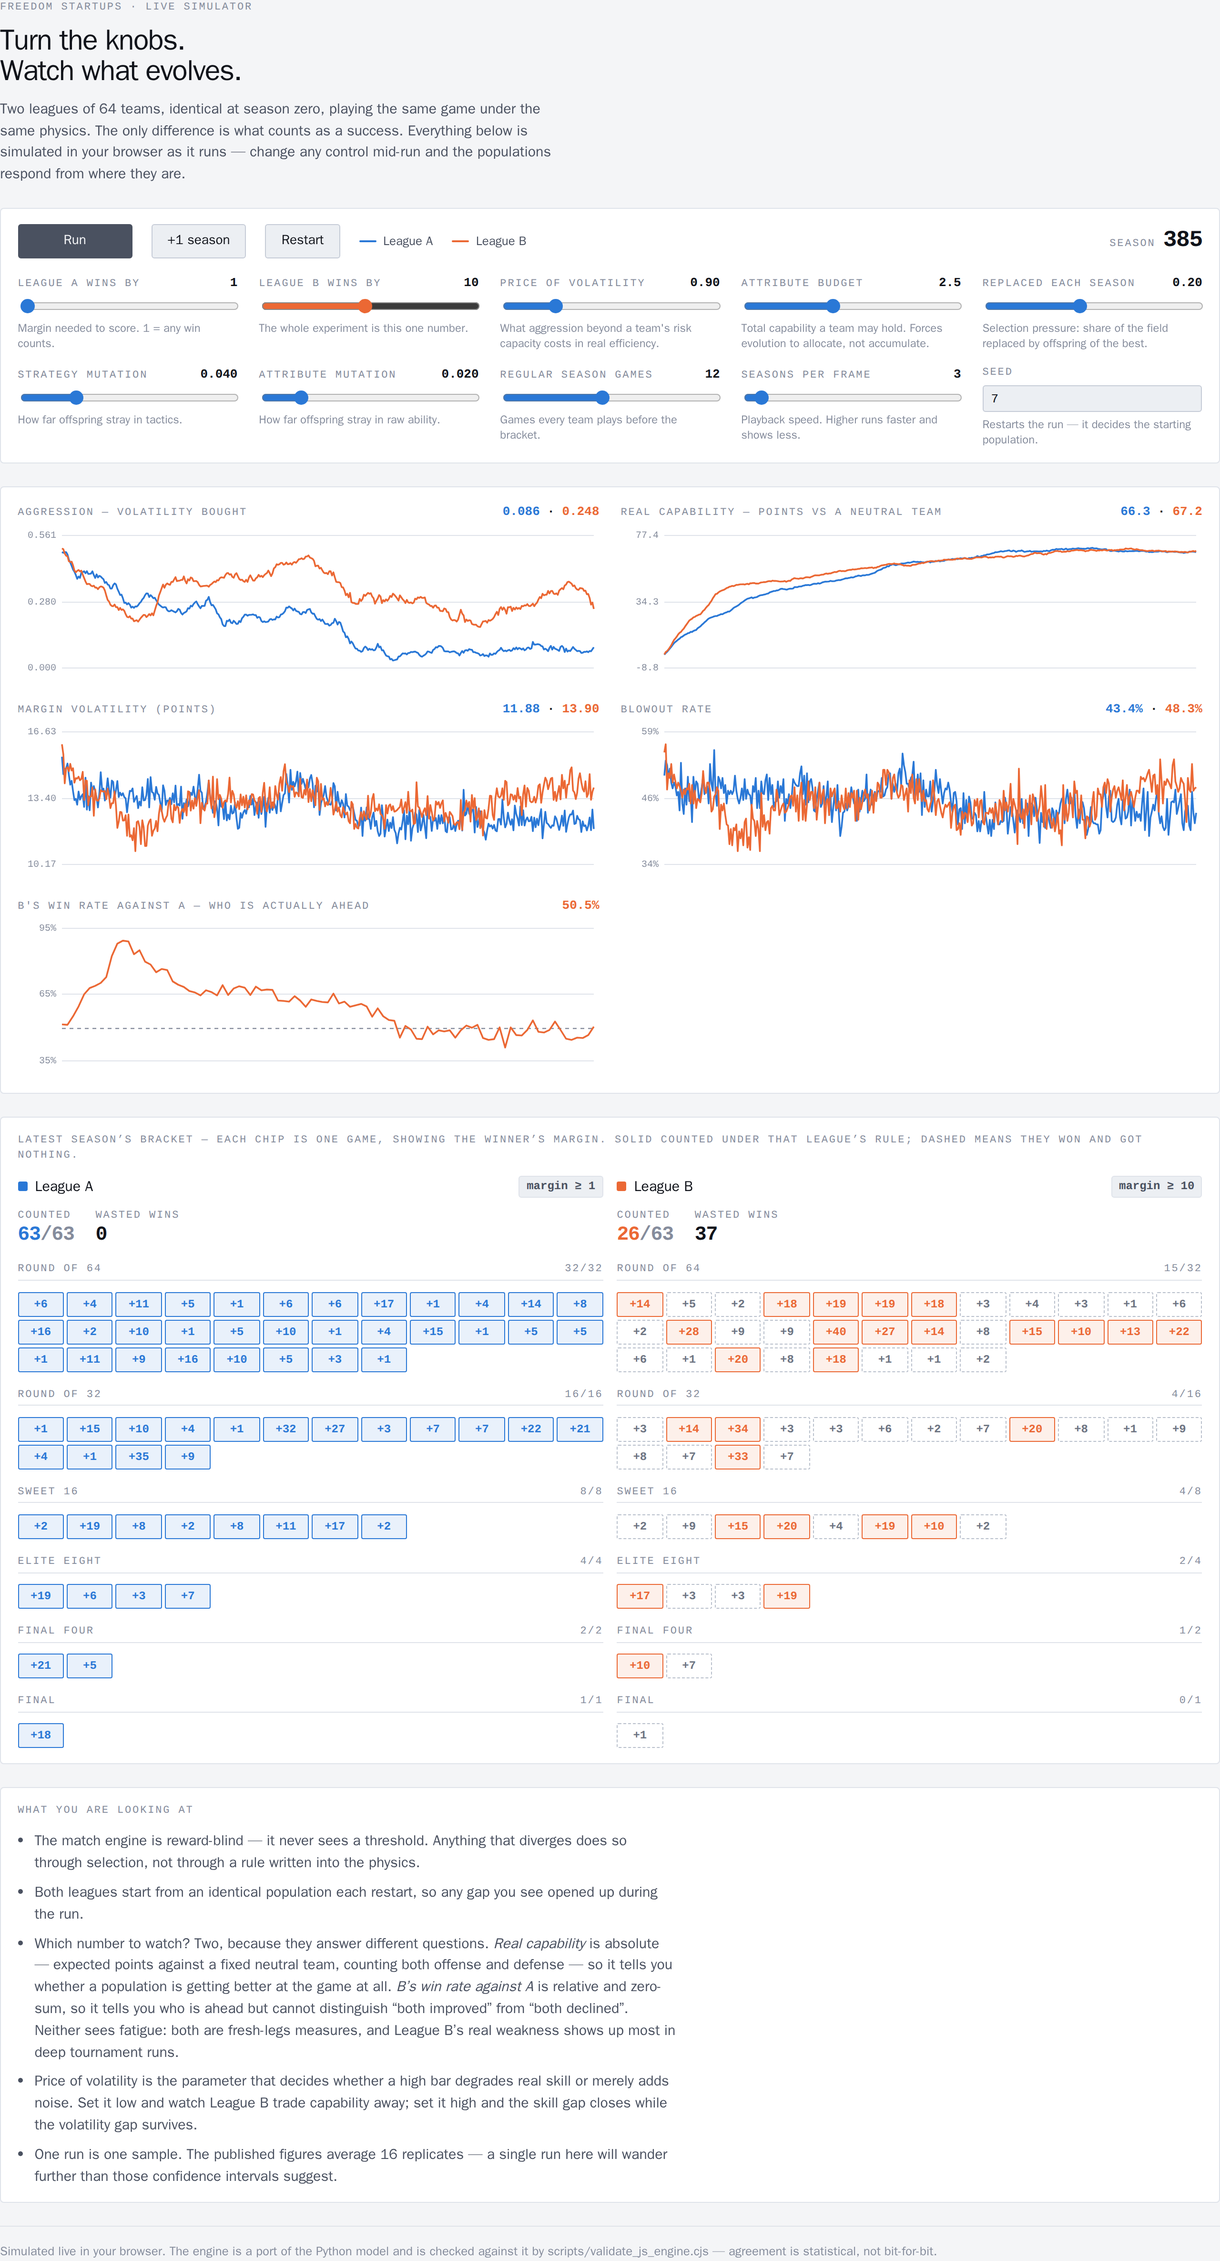
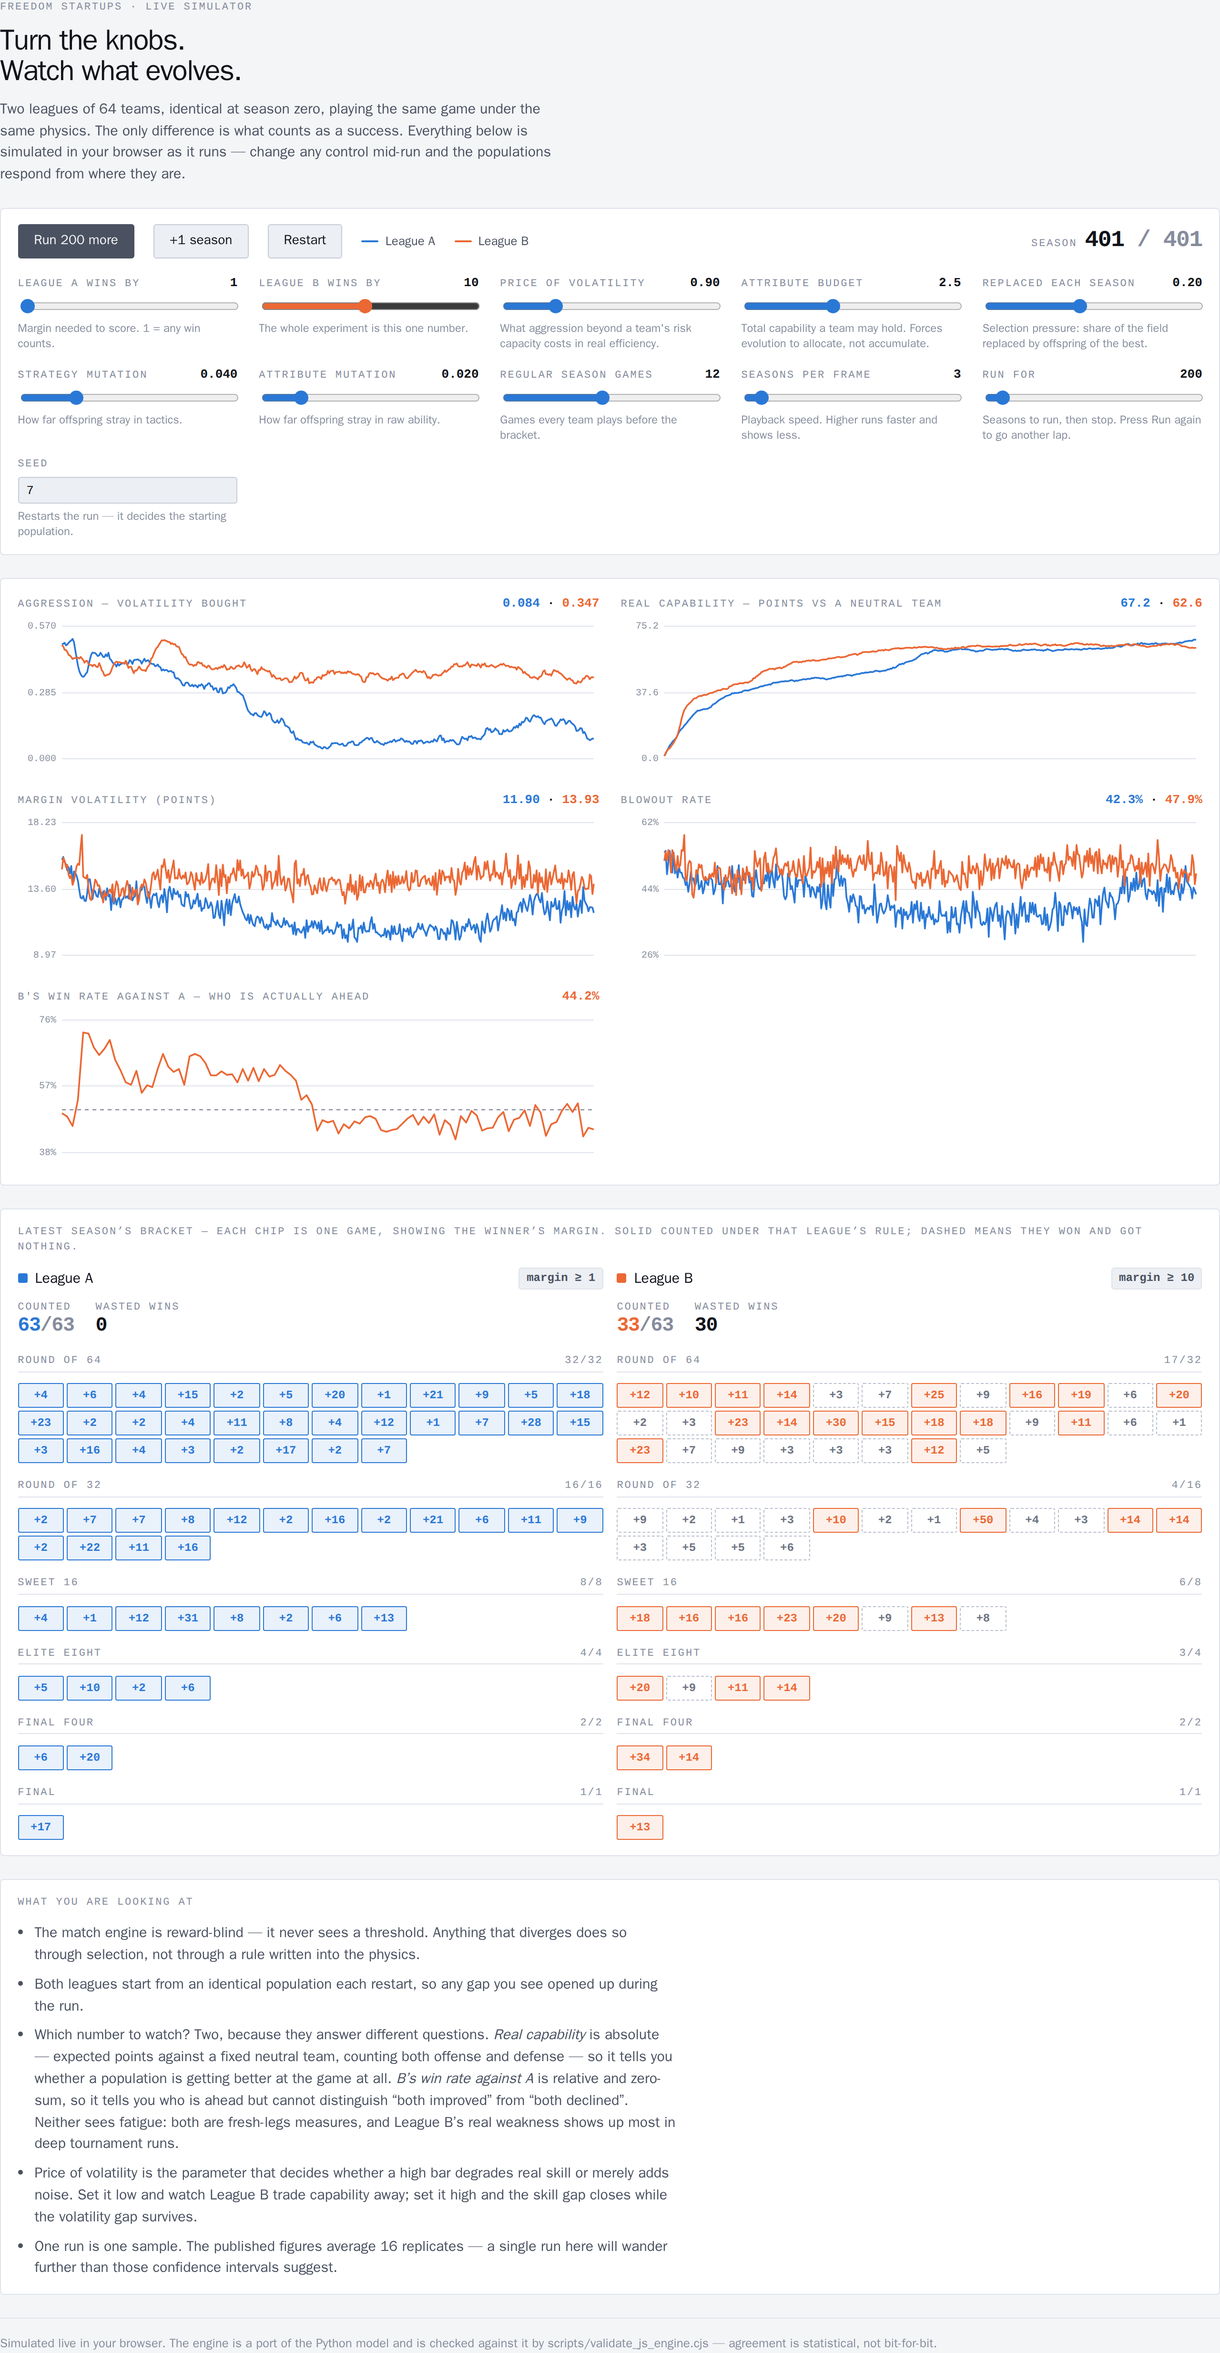
Retract the early-lead finding; fix RNG coupling; add a season target
RETRACTION. PAPER.md §4.2b claimed League B improves faster for the first
hundred seasons (offense +0.042 at season 25, truncation selection). The claim
does not survive its error bars: sd 0.184 against that mean, 95% CI
[-0.048, +0.132], not significant at ANY season. It was asserted from eyeballed
mean curves without checking the spread — the same error §5.1's null control
exists to prevent. Early trajectories are ~3x noisier than converged ones, so a
16-replicate mean traces a shape individual runs do not share. Testing it
properly needs ~150 replicates; that has not been run, so the question is open,
not answered.

Two real bugs, both surfaced by the JS engine failing to reproduce the claim:

- Bracket seeding drew fresh jitter inside the sort comparator, making it
  non-transitive. With integer rewards there are many ties, so the "ranking"
  was arbitrary rather than sorted.
- mulberry32 gives correlated streams for nearby seeds, and the two leagues were
  seeded one apart — quietly coupling their randomness and undermining the one
  property the whole design rests on. Seeds are now mixed through a splitmix32
  finalizer, and the generator warms up before use.

The validator's transient checks encoded the withdrawn claim; they now assert an
invariant that holds (both populations climb toward the attribute cap).

UX: the simulator no longer runs forever. Set "Run for" seasons and it stops
there; pressing Run again goes another lap.

diff --git a/web/sim.html b/web/sim.html
@@ -173,7 +173,8 @@
         <span><i style="background:var(--b)"></i> League B</span>
       </div>
       <div class="season-readout">
-        <span class="micro">Season</span><span class="v" id="season">0</span>
+        <span class="micro">Season</span>
+        <span class="v"><span id="season">0</span><span id="target-label" style="color:var(--ink-3)"></span></span>
       </div>
     </div>
     <div class="controls" id="controls"></div>
@@ -282,8 +283,18 @@ const Engine = (() => {
 
   // -- randomness ------------------------------------------------------------
 
+  /** mulberry32 gives correlated streams for nearby seeds, and the two leagues
+   *  are seeded one apart — which would quietly couple their randomness and
+   *  break the one property the design rests on. Mix the seed hard first. */
+  function mixSeed(x) {
+    x = ((x | 0) + 0x9E3779B9) | 0;
+    x = Math.imul(x ^ (x >>> 16), 0x21f0aaad);
+    x = Math.imul(x ^ (x >>> 15), 0x735a2d97);
+    return (x ^ (x >>> 15)) >>> 0;
+  }
+
   function makeRng(seed) {
-    let a = (seed >>> 0) || 1;
+    let a = mixSeed(seed) || 1;
     let spare = null;
 
     const next = () => {
@@ -320,6 +331,7 @@ const Engine = (() => {
       }
     };
 
+    for (let i = 0; i < 16; i++) next();
     return { next, normal, gamma, int: (n) => Math.floor(next() * n) };
   }
 
@@ -601,8 +613,13 @@ const Engine = (() => {
     }
 
     // Seed by the league's own success metric, ties broken at random.
-    const seeds = Array.from({ length: n }, (_, i) => i)
-      .sort((p, q) => (reward[q] + rng.next() * 1e-6) - (reward[p] + rng.next() * 1e-6));
+    // The jitter must be drawn ONCE PER TEAM, not inside the comparator: a
+    // comparator that re-randomises on every call is non-transitive, and with
+    // integer rewards there are many ties, so the resulting order is garbage
+    // rather than a ranking.
+    const keyed = new Float64Array(n);
+    for (let i = 0; i < n; i++) keyed[i] = reward[i] + rng.next() * 1e-6;
+    const seeds = Array.from({ length: n }, (_, i) => i).sort((p, q) => keyed[q] - keyed[p]);
     const seedOf = new Int32Array(n);
     seeds.forEach((team, pos) => { seedOf[team] = pos; });
 
@@ -758,6 +775,8 @@ const Engine = (() => {
       hint: "Games every team plays before the bracket." },
     { key: "speed", label: "Seasons per frame", min: 1, max: 40, step: 1, value: 3,
       hint: "Playback speed. Higher runs faster and shows less." },
+    { key: "target", label: "Run for", min: 50, max: 3000, step: 50, value: 600,
+      hint: "Seasons to run, then stop. Press Run again to go another lap." },
   ];
 
   const CHARTS = [
@@ -773,6 +792,7 @@ const Engine = (() => {
 
   const params = Object.fromEntries(CONTROLS.map((c) => [c.key, c.value]));
   let seed = 7;
+  let target = params.target;
   let run = null;
   let playing = false;
   let lastWallDraw = 0;
@@ -802,7 +822,15 @@ const Engine = (() => {
       input.addEventListener("input", () => {
         params[c.key] = parseFloat(input.value);
         show();
-        applyLive();
+        // The target is a stopping point, not a model parameter: set it from
+        // where the run currently is, so it always means "this many more".
+        if (c.key === "target") {
+          target = (run ? run.season : 0) + Math.round(params.target);
+          setPlaying(playing);
+          render(true);
+        } else {
+          applyLive();
+        }
       });
       show();
     }
@@ -842,6 +870,7 @@ const Engine = (() => {
   /* ---------- lifecycle ---------- */
 
   function restart() {
+    target = Math.round(params.target);
     run = Engine.createRun({
       seed,
       leagues: [
@@ -864,14 +893,18 @@ const Engine = (() => {
   function tick() {
     if (!playing) return;
     const n = Math.round(params.speed);
-    for (let i = 0; i < n; i++) Engine.step(run);
+    for (let i = 0; i < n && run.season < target; i++) Engine.step(run);
     render(false);
+    if (run.season >= target) { setPlaying(false); render(true); return; }
     requestAnimationFrame(tick);
   }
 
   function setPlaying(on) {
     playing = on;
-    document.getElementById("run").textContent = on ? "Pause" : "Run";
+    const button = document.getElementById("run");
+    button.textContent = on ? "Pause"
+      : run && run.season >= target ? `Run ${Math.round(params.target)} more`
+      : "Run";
     if (on) requestAnimationFrame(tick);
   }
 
@@ -879,6 +912,7 @@ const Engine = (() => {
 
   function render(force) {
     document.getElementById("season").textContent = run.season.toLocaleString();
+    document.getElementById("target-label").textContent = ` / ${target.toLocaleString()}`;
     for (const spec of CHARTS) {
       if (spec.mode === "h2h" && run.h2hHistory.length < 2) continue;
       drawChart(spec);
@@ -1022,9 +1056,14 @@ const Engine = (() => {
   buildCharts();
   restart();
 
-  document.getElementById("run").addEventListener("click", () => setPlaying(!playing));
+  document.getElementById("run").addEventListener("click", () => {
+    if (!playing && run.season >= target) target = run.season + Math.round(params.target);
+    setPlaying(!playing);
+  });
   document.getElementById("step").addEventListener("click", () => {
-    setPlaying(false); Engine.step(run); render(true);
+    setPlaying(false);
+    if (run.season >= target) target = run.season + 1;
+    Engine.step(run); render(true); setPlaying(false);
   });
   document.getElementById("restart").addEventListener("click", () => { setPlaying(false); restart(); });
   window.addEventListener("resize", () => render(true));

diff --git a/web/sim_template.html b/web/sim_template.html
@@ -173,7 +173,8 @@
         <span><i style="background:var(--b)"></i> League B</span>
       </div>
       <div class="season-readout">
-        <span class="micro">Season</span><span class="v" id="season">0</span>
+        <span class="micro">Season</span>
+        <span class="v"><span id="season">0</span><span id="target-label" style="color:var(--ink-3)"></span></span>
       </div>
     </div>
     <div class="controls" id="controls"></div>
@@ -252,6 +253,8 @@
       hint: "Games every team plays before the bracket." },
     { key: "speed", label: "Seasons per frame", min: 1, max: 40, step: 1, value: 3,
       hint: "Playback speed. Higher runs faster and shows less." },
+    { key: "target", label: "Run for", min: 50, max: 3000, step: 50, value: 600,
+      hint: "Seasons to run, then stop. Press Run again to go another lap." },
   ];
 
   const CHARTS = [
@@ -267,6 +270,7 @@
 
   const params = Object.fromEntries(CONTROLS.map((c) => [c.key, c.value]));
   let seed = 7;
+  let target = params.target;
   let run = null;
   let playing = false;
   let lastWallDraw = 0;
@@ -296,7 +300,15 @@
       input.addEventListener("input", () => {
         params[c.key] = parseFloat(input.value);
         show();
-        applyLive();
+        // The target is a stopping point, not a model parameter: set it from
+        // where the run currently is, so it always means "this many more".
+        if (c.key === "target") {
+          target = (run ? run.season : 0) + Math.round(params.target);
+          setPlaying(playing);
+          render(true);
+        } else {
+          applyLive();
+        }
       });
       show();
     }
@@ -336,6 +348,7 @@
   /* ---------- lifecycle ---------- */
 
   function restart() {
+    target = Math.round(params.target);
     run = Engine.createRun({
       seed,
       leagues: [
@@ -358,14 +371,18 @@
   function tick() {
     if (!playing) return;
     const n = Math.round(params.speed);
-    for (let i = 0; i < n; i++) Engine.step(run);
+    for (let i = 0; i < n && run.season < target; i++) Engine.step(run);
     render(false);
+    if (run.season >= target) { setPlaying(false); render(true); return; }
     requestAnimationFrame(tick);
   }
 
   function setPlaying(on) {
     playing = on;
-    document.getElementById("run").textContent = on ? "Pause" : "Run";
+    const button = document.getElementById("run");
+    button.textContent = on ? "Pause"
+      : run && run.season >= target ? `Run ${Math.round(params.target)} more`
+      : "Run";
     if (on) requestAnimationFrame(tick);
   }
 
@@ -373,6 +390,7 @@
 
   function render(force) {
     document.getElementById("season").textContent = run.season.toLocaleString();
+    document.getElementById("target-label").textContent = ` / ${target.toLocaleString()}`;
     for (const spec of CHARTS) {
       if (spec.mode === "h2h" && run.h2hHistory.length < 2) continue;
       drawChart(spec);
@@ -516,9 +534,14 @@
   buildCharts();
   restart();
 
-  document.getElementById("run").addEventListener("click", () => setPlaying(!playing));
+  document.getElementById("run").addEventListener("click", () => {
+    if (!playing && run.season >= target) target = run.season + Math.round(params.target);
+    setPlaying(!playing);
+  });
   document.getElementById("step").addEventListener("click", () => {
-    setPlaying(false); Engine.step(run); render(true);
+    setPlaying(false);
+    if (run.season >= target) target = run.season + 1;
+    Engine.step(run); render(true); setPlaying(false);
   });
   document.getElementById("restart").addEventListener("click", () => { setPlaying(false); restart(); });
   window.addEventListener("resize", () => render(true));

diff --git a/web/engine.js b/web/engine.js
@@ -53,8 +53,18 @@ const Engine = (() => {
 
   // -- randomness ------------------------------------------------------------
 
+  /** mulberry32 gives correlated streams for nearby seeds, and the two leagues
+   *  are seeded one apart — which would quietly couple their randomness and
+   *  break the one property the design rests on. Mix the seed hard first. */
+  function mixSeed(x) {
+    x = ((x | 0) + 0x9E3779B9) | 0;
+    x = Math.imul(x ^ (x >>> 16), 0x21f0aaad);
+    x = Math.imul(x ^ (x >>> 15), 0x735a2d97);
+    return (x ^ (x >>> 15)) >>> 0;
+  }
+
   function makeRng(seed) {
-    let a = (seed >>> 0) || 1;
+    let a = mixSeed(seed) || 1;
     let spare = null;
 
     const next = () => {
@@ -91,6 +101,7 @@ const Engine = (() => {
       }
     };
 
+    for (let i = 0; i < 16; i++) next();
     return { next, normal, gamma, int: (n) => Math.floor(next() * n) };
   }
 
@@ -372,8 +383,13 @@ const Engine = (() => {
     }
 
     // Seed by the league's own success metric, ties broken at random.
-    const seeds = Array.from({ length: n }, (_, i) => i)
-      .sort((p, q) => (reward[q] + rng.next() * 1e-6) - (reward[p] + rng.next() * 1e-6));
+    // The jitter must be drawn ONCE PER TEAM, not inside the comparator: a
+    // comparator that re-randomises on every call is non-transitive, and with
+    // integer rewards there are many ties, so the resulting order is garbage
+    // rather than a ranking.
+    const keyed = new Float64Array(n);
+    for (let i = 0; i < n; i++) keyed[i] = reward[i] + rng.next() * 1e-6;
+    const seeds = Array.from({ length: n }, (_, i) => i).sort((p, q) => keyed[q] - keyed[p]);
     const seedOf = new Int32Array(n);
     seeds.forEach((team, pos) => { seedOf[team] = pos; });
 

diff --git a/PAPER.md b/PAPER.md
@@ -22,11 +22,7 @@ offensive and defensive skill end up *lower* than League A's, and against a
 common opponent its expected margin is −0.53 points against League A's +0.01.
 The volatility effects are large relative to a drift null control (t = 4.8–6.0);
 the skill degradation is real but marginal (t = 2.0–2.4) and, as a price-of-
-volatility sweep shows, holds only where volatility is cheap. It is also not
-monotone: League B improves *faster* than League A for the first hundred seasons,
-peaking at +0.042 offensive skill around season 25, before the advantage decays
-and reverses. A demanding bar is a sharp selection instrument for a weak
-population and a corrupting one for a capable population.
+volatility sweep shows, holds only where volatility is cheap.
 
 The trade is not merely lateral but unfavourable. League B gains 0.89 percentage
 points at winning by 10+ while giving up 3.42 points at losing by 10+; the
@@ -284,41 +280,33 @@ strongest available evidence that the mechanism is real rather than incidental:
 At threshold 5 only offensive skill is significantly degraded; at threshold 10
 both attributes are. The harder the bar, the more real capability is traded away.
 
-### 4.2b A high bar helps a weak population and hurts a strong one
+### 4.2b Retracted: an early-lead effect that does not survive its own error bars
 
-Reporting only converged values hid a reversal. Tracking capability across the
-whole run rather than at the end:
+An earlier version of this paper reported that League B improves *faster* for the
+first hundred seasons — offensive skill peaking at +0.042 over League A around
+season 25 — and explained it by truncation selection. **That claim is withdrawn.**
 
-| Season | Offensive skill A | Offensive skill B | B − A |
+The means do trace that shape, but the per-replicate spread swamps it:
+
+| Season | Mean gap (B−A) | SD | 95% CI |
 |---|---|---|---|
-| 0 | 0.4977 | 0.4977 | 0.0000 |
-| 5 | 0.5730 | 0.5946 | **+0.0216** |
-| 25 | 0.6545 | 0.6968 | **+0.0423** |
-| 50 | 0.7166 | 0.7323 | +0.0157 |
-| 100 | 0.8188 | 0.8195 | +0.0008 |
-| 599 | 0.9326 | 0.9314 | −0.0012 |
+| 5 | +0.0216 | 0.061 | [−0.008, +0.051] |
+| 25 | +0.0423 | 0.184 | [−0.048, +0.132] |
+| 50 | +0.0157 | 0.170 | [−0.068, +0.099] |
+| 100 | +0.0008 | 0.104 | [−0.050, +0.051] |
 
-**League B improves faster for the first hundred seasons.** Its offensive skill
-peaks at +0.042 over League A around season 25 and does not fall back through
-zero until season 125; defensive skill peaks later (+0.030 at season 128) and
-crosses at season 178. The final-state result reported everywhere else in this
-paper is the *end* of a trajectory that begins with the opposite sign.
+Not significant at any season. Early trajectories are far noisier than converged
+ones — the spread at season 25 is three times the converged spread — so a mean
+curve computed over 16 replicates traces a shape that individual runs do not
+share. A faithful reimplementation of the model in JavaScript fails to reproduce
+the effect across three independent seed families, which is what prompted the
+check.
 
-The mechanism is truncation selection. When the population is weak, almost
-nobody clears a ten-point margin, so the few who do are genuinely the strongest
-teams and the reward is a very sharp quality signal. Under threshold 1 roughly
-half the field is rewarded every game, which is a far noisier read on who is
-actually good. The high bar is initially the *better* instrument.
-
-The reversal comes when the population improves enough that the bar is reachable
-by volatility rather than by dominance. From that point the cheap route is
-available and selection takes it.
-
-Stated for the case that motivates this work: **a demanding bar is a good
-instrument for a weak population and a corrupting one for a capable population**,
-and the switch happens without any change in the rule. We found this only after
-building a live simulator that plots the whole trajectory; the static analysis
-reported the last thirty seasons and would have missed it indefinitely.
+Testing the hypothesis properly would need roughly 150 replicates to bring the
+interval below the effect size. We have not run that, so the question is open
+rather than answered. We record the episode because it is the same error the
+null control in §5.1 was built to catch, committed by the same authors one
+section later: **a mean curve is not a finding until its spread is examined.**
 
 ---
 
